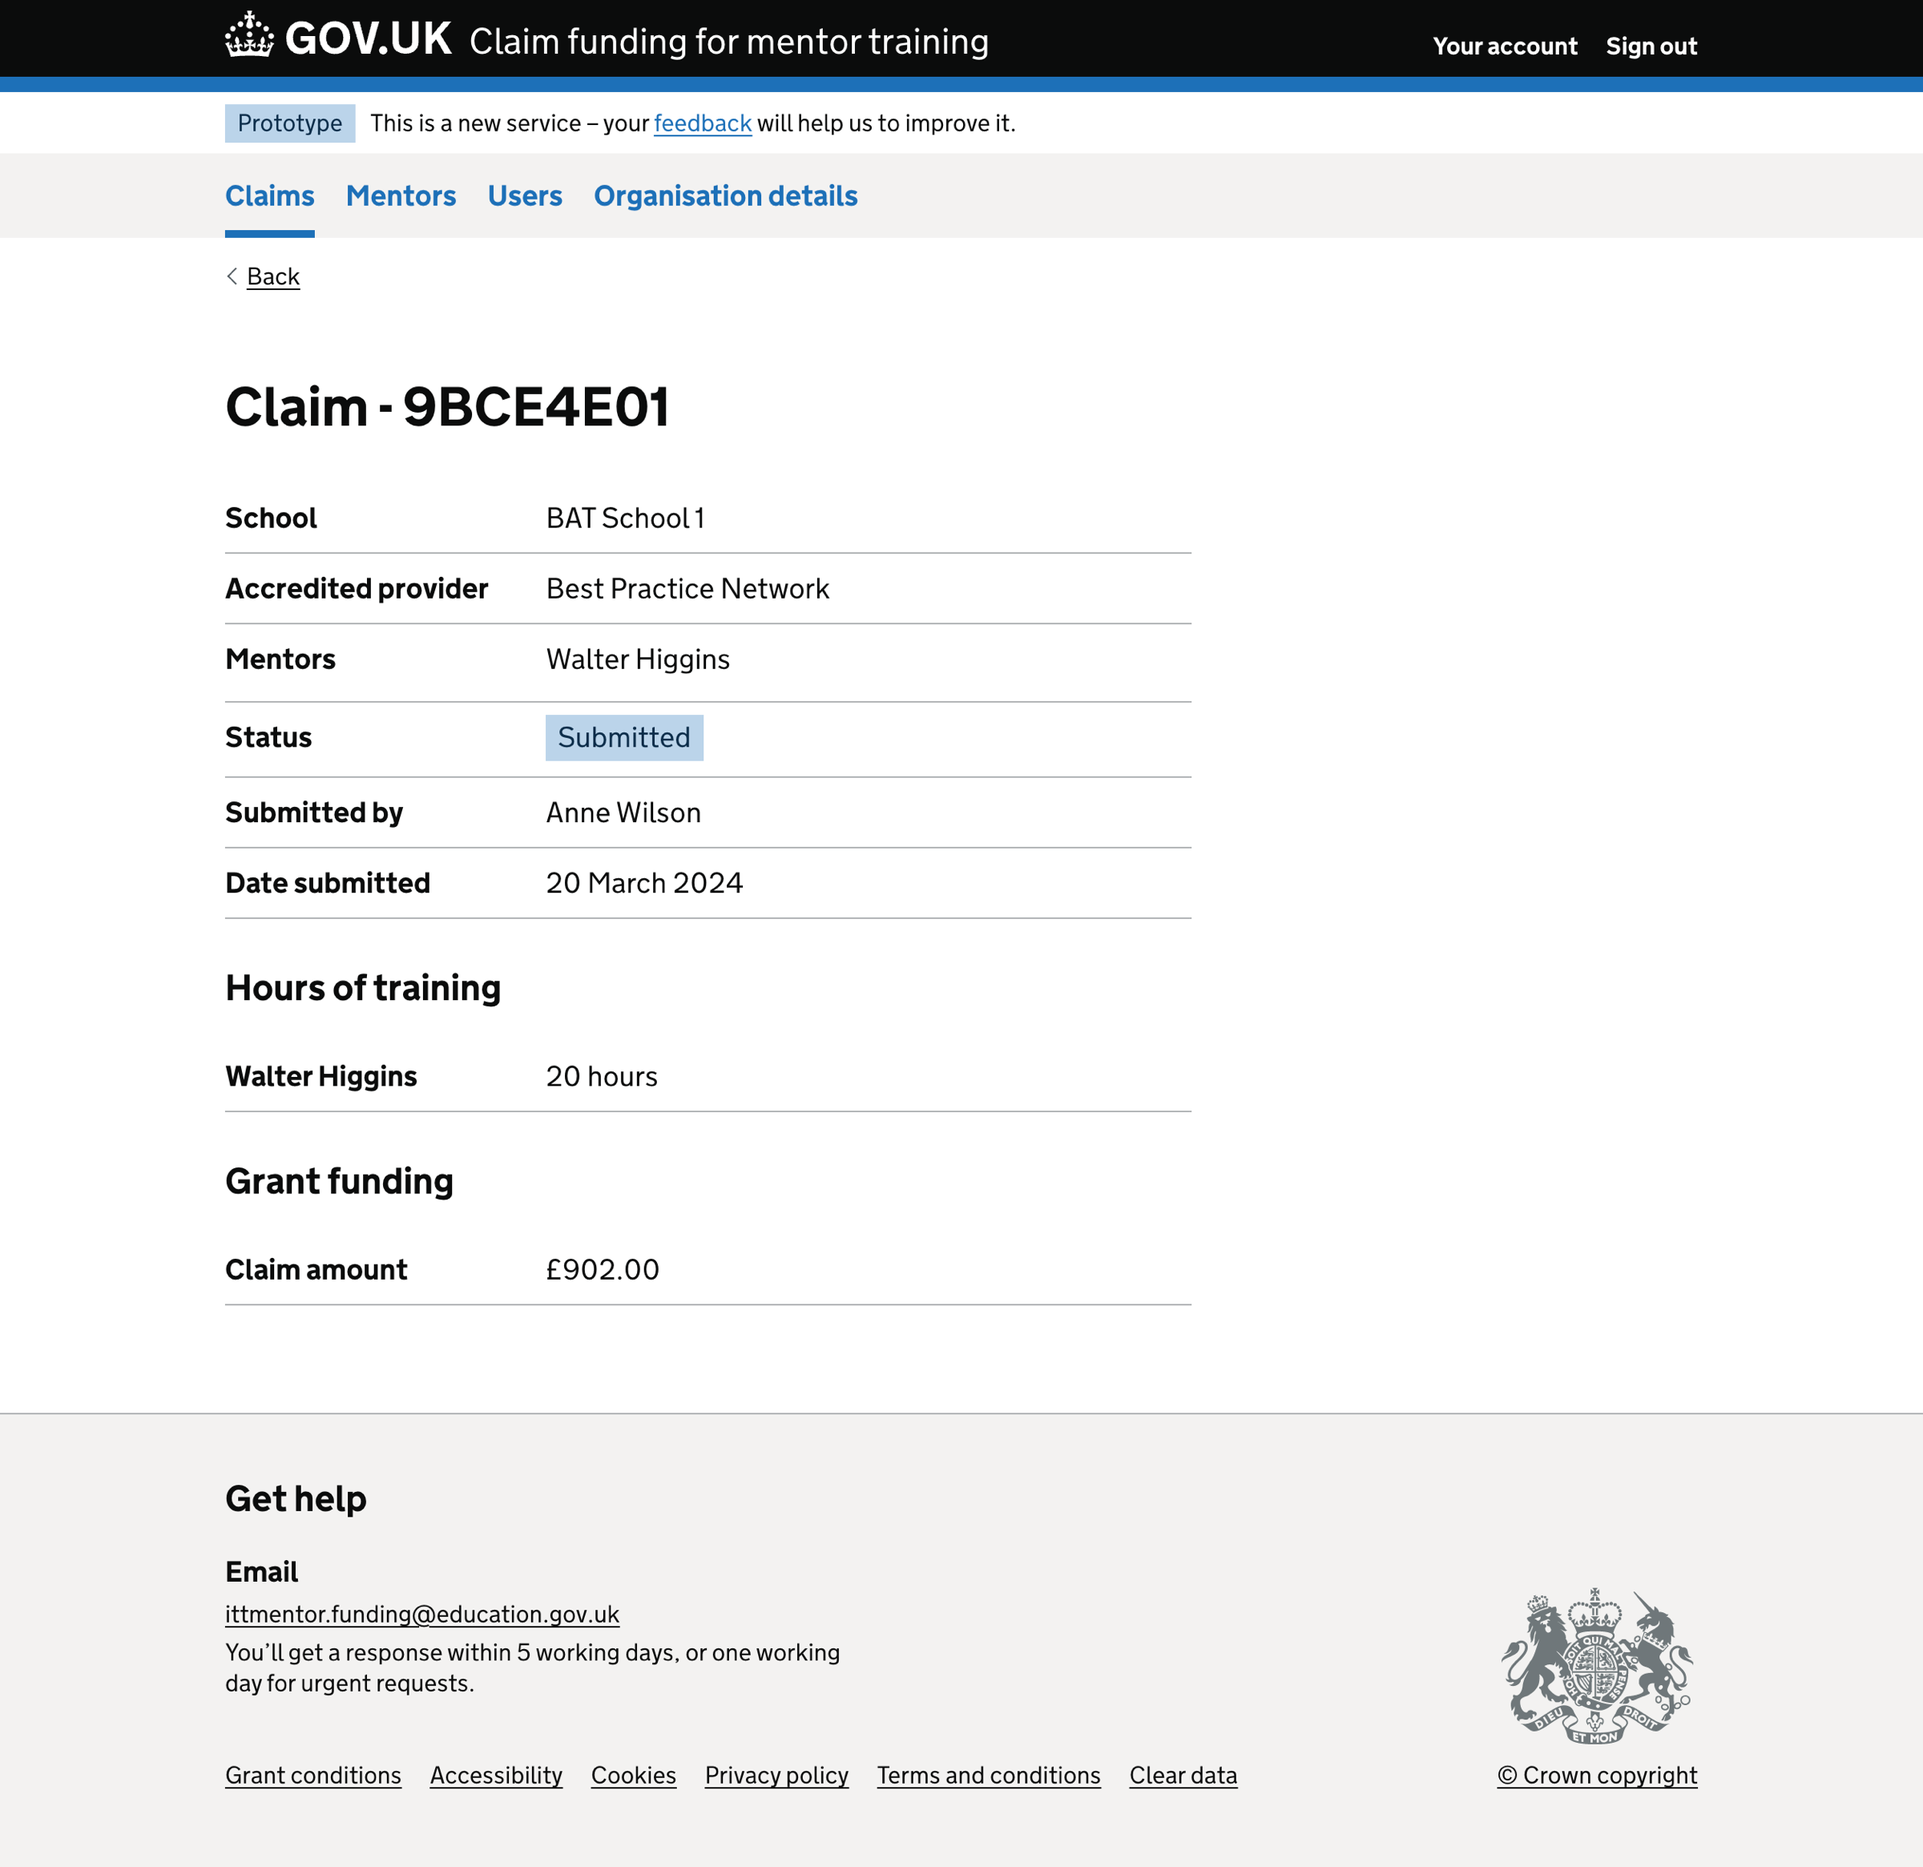
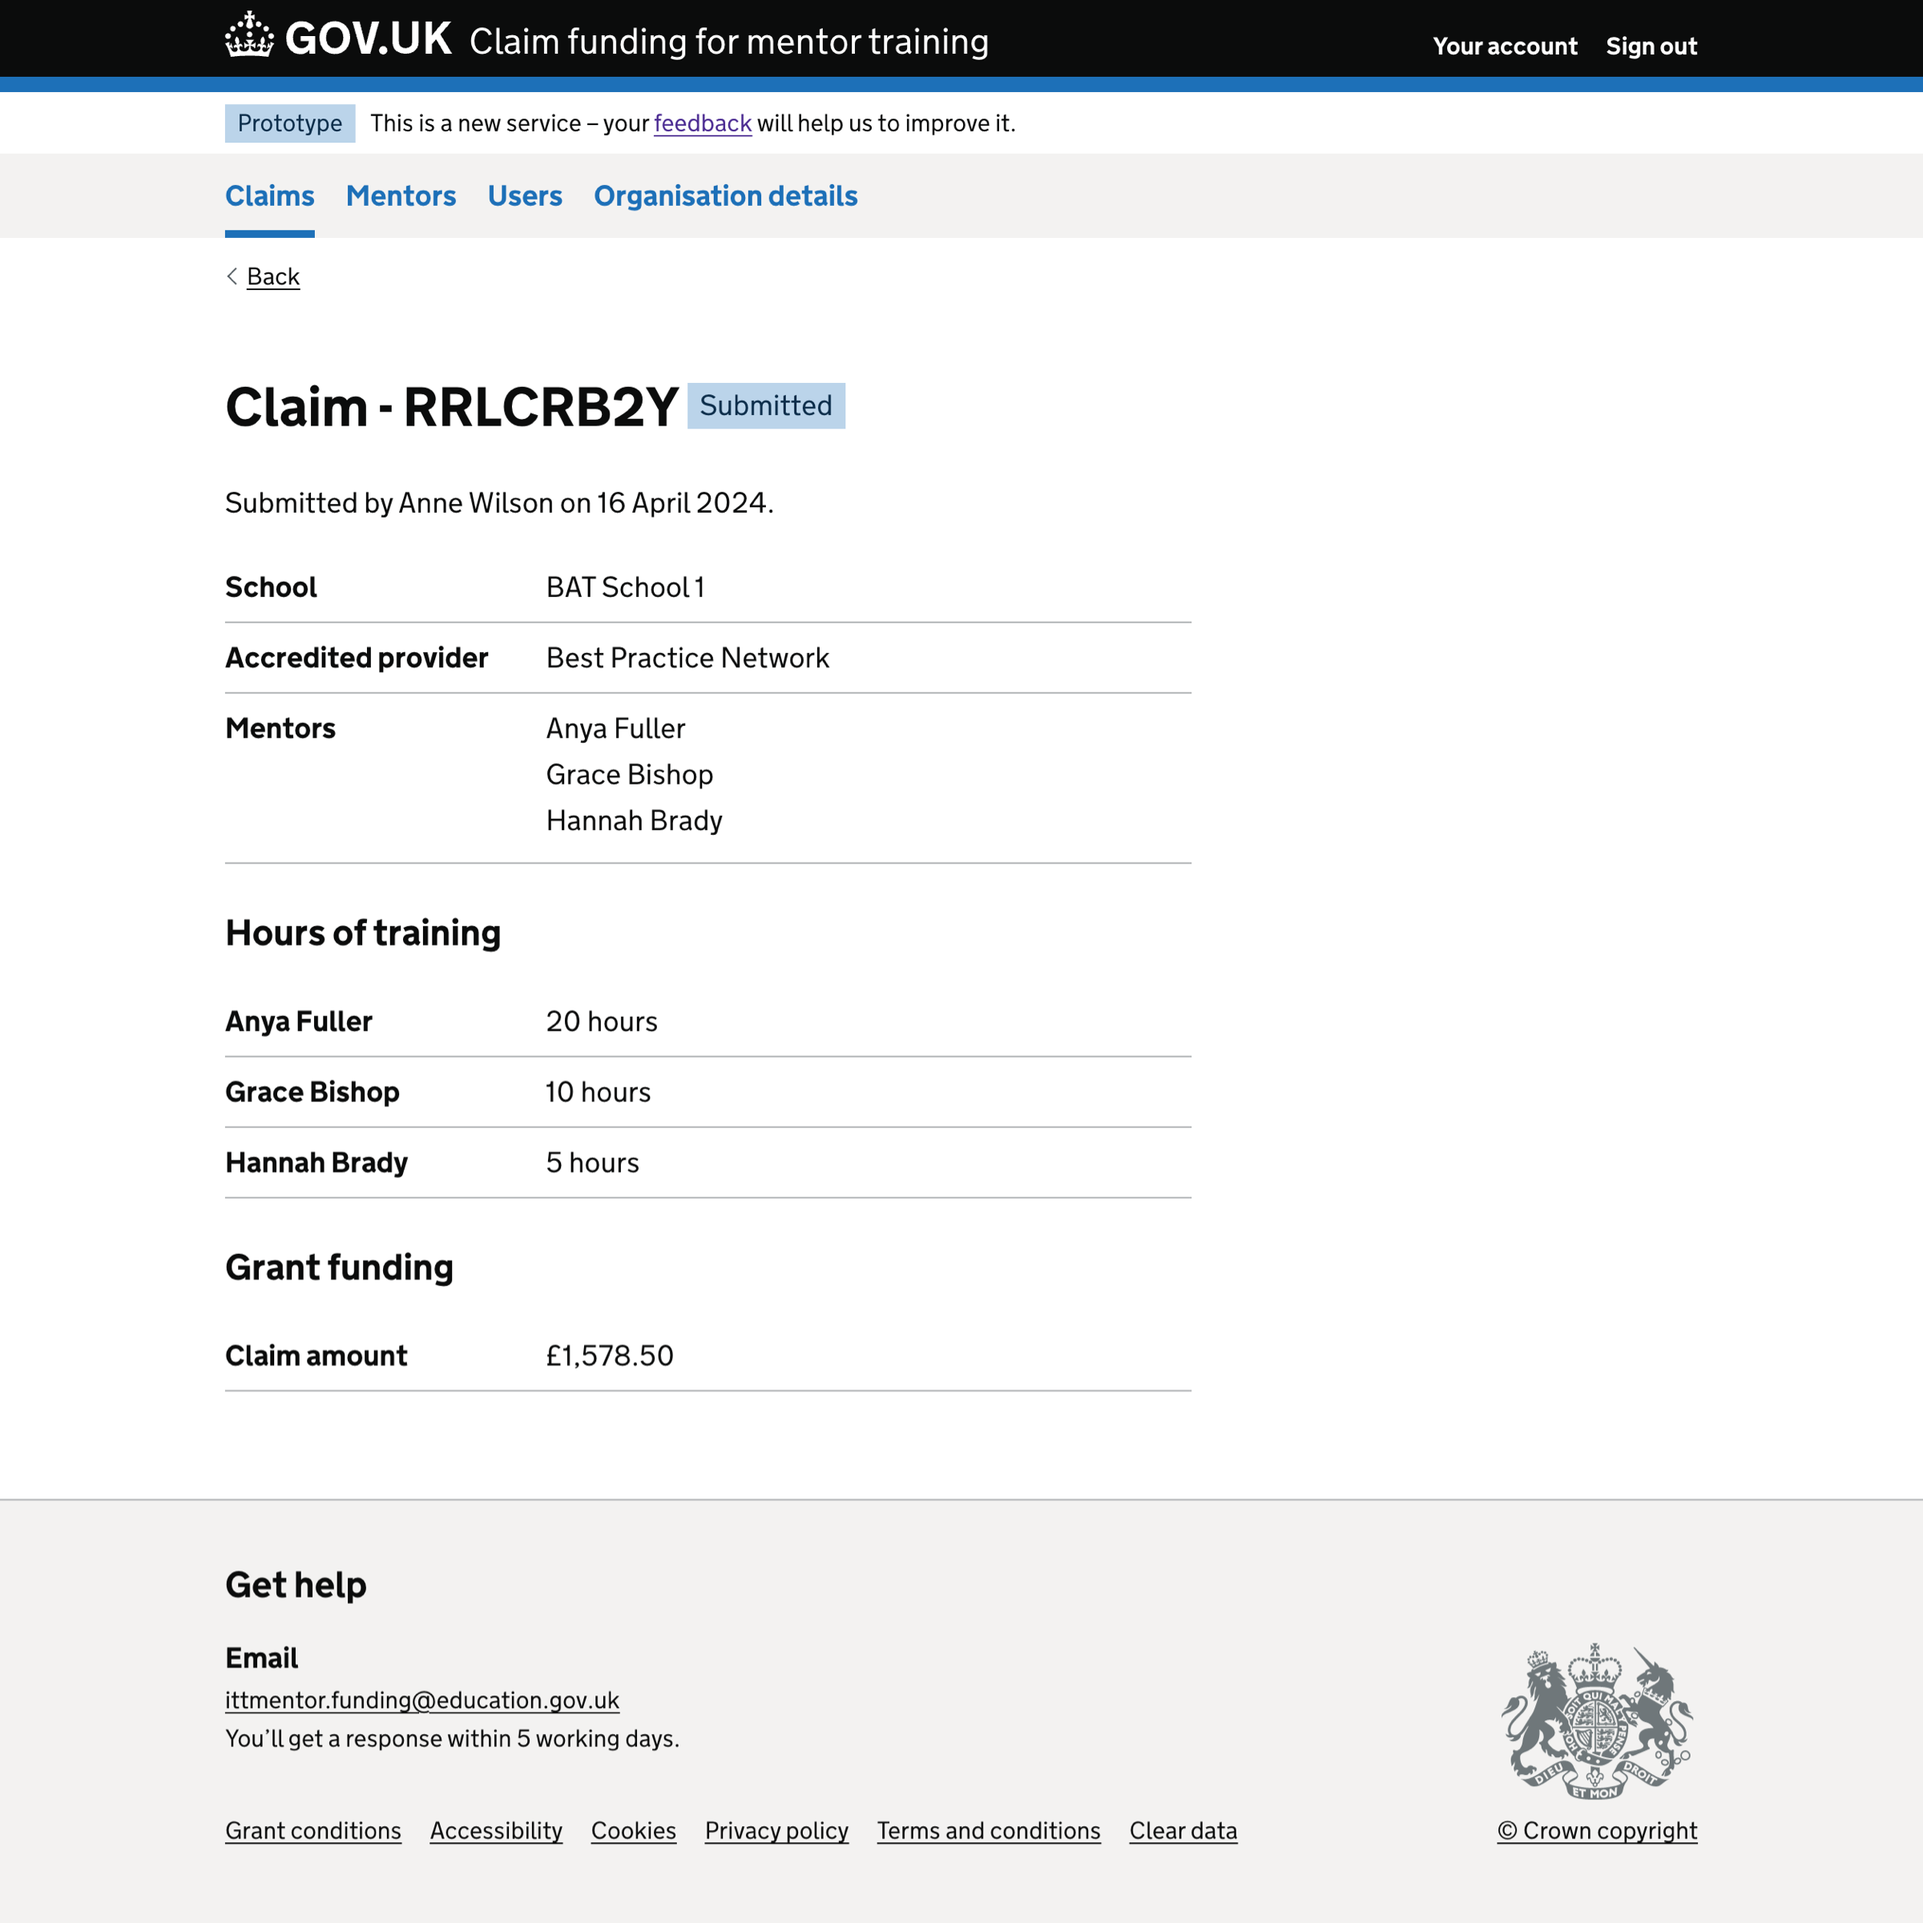
Update content and image

diff --git a/app/posts/claim-funding-for-mentors/2024-03-20-logging-who-submitted-a-claim.md b/app/posts/claim-funding-for-mentors/2024-03-20-logging-who-submitted-a-claim.md
@@ -1,12 +1,17 @@
 ---
 title: Logging who submitted a claim
-description: We added details of who submitted the claim for auditing purposes
+description: We added details of who submitted the claim for assurance purposes
 date: 2024-03-20
 tags:
-  - auditing
+  - assurance
   - claims
-screenshots:
-  items:
-    - text: Claim details
-      src: claim--details.png
 ---
+
+For assurance purposes, we need to show:
+
+- who submitted a claim
+- when the user submitted the claim
+
+We added this information to the claim details page below the page heading.
+
+[![Claim details page](claim--details.png "Claim details page")](claim--details.png)
